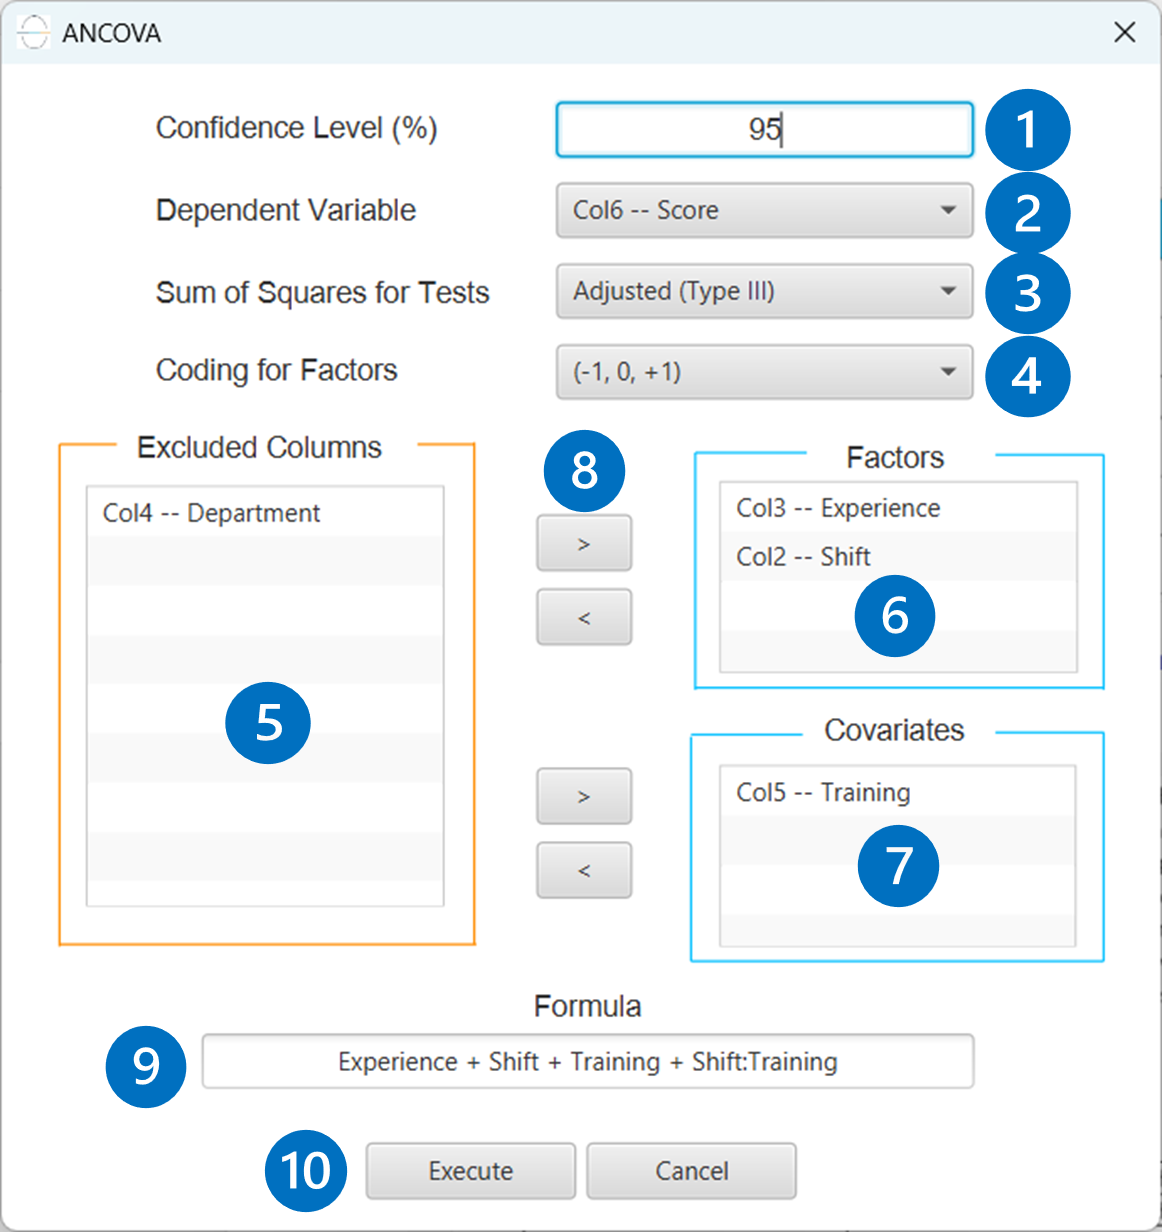
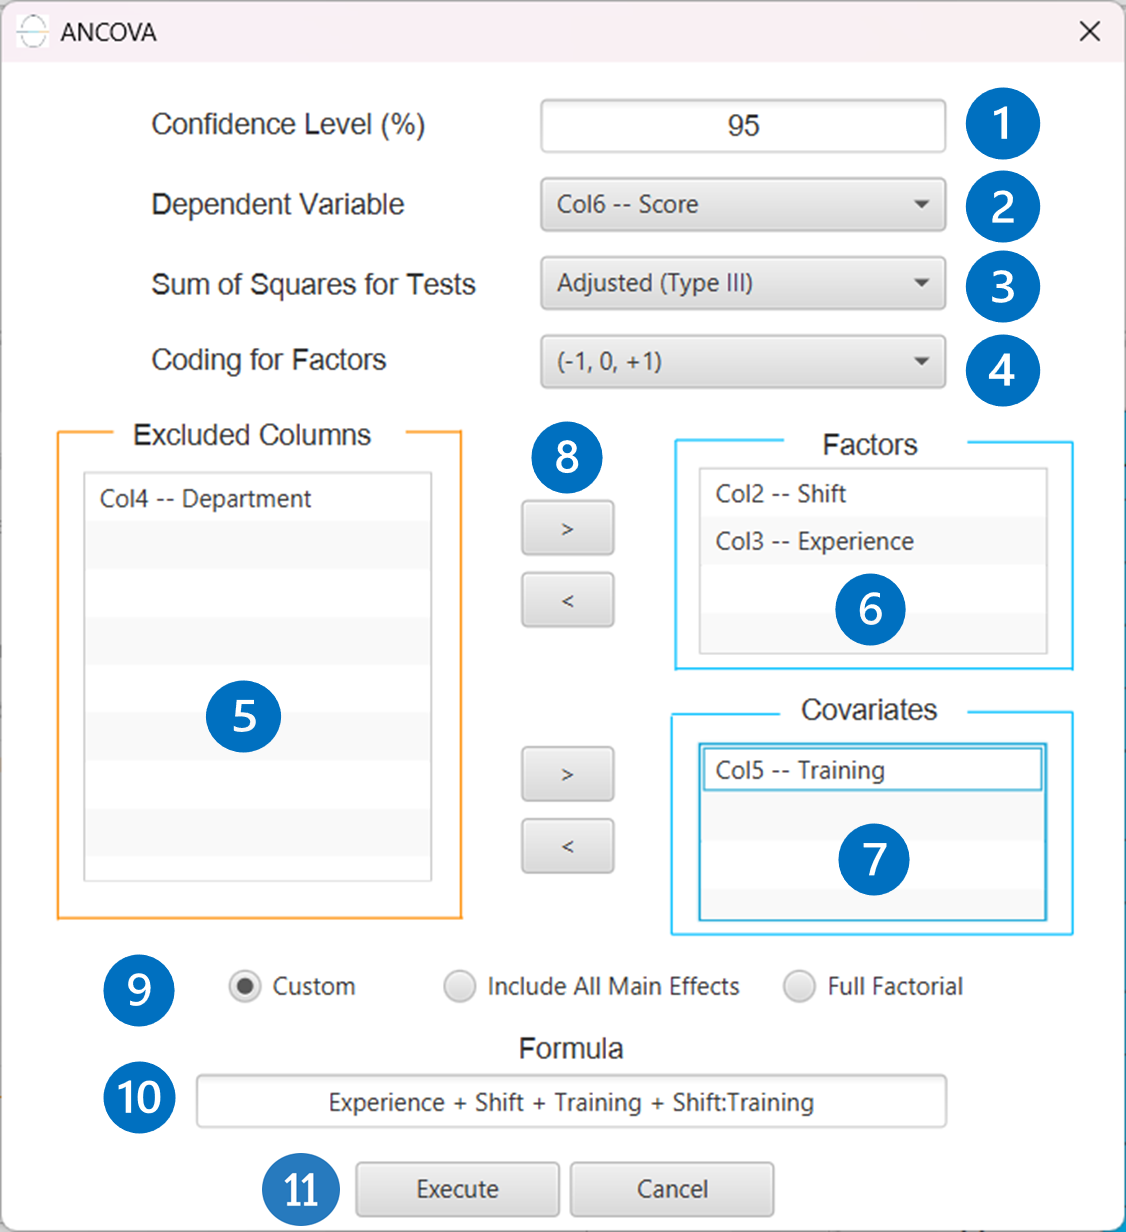
Analyis of (Co)Variance Fixed  and addition of Linear and Negative Binomial GLM

diff --git a/docs/analytics/41regression.md b/docs/analytics/41regression.md
@@ -532,52 +532,188 @@ In the right-hand spreadsheet of the tab the output data matrix with the actual 
 
 
 ### Generalized Linear Models
+Generalized Linear Models (GLMs) are a flexible class of regression models that generalize ordinary linear regression to allow for response variables that have error distributions other than the normal distribution. GLMs are particularly useful when the response variable is categorical (e.g., binary outcomes) or count data, where assumptions of normality and constant variance are inappropriate.
+A GLM consists of three components:
+1. 	Random Component: The response variable $$y_i$$  is assumed to follow a distribution from the exponential family (e.g., Normal, Binomial, Poisson, Gamma).
+1. 	Systematic Component: A linear predictor  $$\eta_i= x_i^T \beta$$, where $$x_i$$ is the vector of predictors for the i-th observation, and $$\beta$$ is the vector of coefficients.
+1. 	Link Function: A smooth, monotonic function $$g(⋅)$$ that relates the mean  $$\mu_i= E[y_i]$$ of the response to the linear predictor via $$g(\mu_i )= \eta_i$$.
+
+Unlike traditional linear regression, GLMs do not assume a linear relationship between the predictors and the response. Instead, the link function transforms the expected value of the response variable to a scale where it can be modeled as a linear combination of the predictors.
+GLM parameters are estimated using Maximum Likelihood Estimation (MLE). The likelihood is constructed based on the assumed distribution of the response variable, and the log-likelihood function is maximized to obtain the parameter estimates.
+Because log-likelihood is usually a nonlinear function of the parameters, iterative optimization method such as Newton-Raphson and Fisher Scoring are used to obtain the maximum likelihood estimates of the parameters of each model.
+Categorical variables are encoded using one-hot encoding, where each category is represented by a binary (0 or 1) dummy variable. The reference category for each categorical variable is the first observed category, and its corresponding dummy variable is omitted to avoid multicollinearity. This omission allows the reference category to be implicitly represented in the model intercept, providing a baseline for interpreting the effects of the other categories.
+
 
 #### Linear
 {: .no_toc}
+The classical linear regression model assumes that the response variable follows a normal (Gaussian) distribution, conditional on the explanatory variables. Specifically, for a continuous dependent variable $$Y$$, the model expresses $$Y$$ as a linear function of one or more independent variables $$X_1, X_2, …, X_p$$, plus a normally distributed error term:
+<div id="linear regression equation" style="text-align: center;">
+    $$
+    \begin{equation}
+    Y = \beta_0 + \beta_1X_1 + ... + \beta_pX_p + \epsilon \text{  ,  } \epsilon \sim \mathcal{N}(0,\sigma^2)
+    \end{equation}
+    $$
+</div> 
+
+Within the framework of Generalized Linear Models (GLMs), linear regression corresponds to the case where the distribution of the dependent variable is Gaussian, and the link function is the identity function:   
+<div id="linear regression link function" style="text-align: center;">
+    $$
+    \begin{equation}
+    g(\mu) = \mu \text{, where } \mu = \mathbb{E}[Y]
+    \end{equation}
+    $$
+</div>                        
+
+This identity link implies that the expected value of the outcome is directly modeled as a linear combination of the predictors.
+Linear regression is the most used when the dependent variable is continuous, unbounded, and approximately normally distributed, and when the relationship between the predictors and the outcome is assumed to be additive and linear.
+
+Use the Linear Regression method by browsing in the top ribbon: 
+
+| Analytics $$\rightarrow$$ Regression $$\rightarrow$$ Statistical fitting $$\rightarrow$$ Generalized Linear Models |
+
+And then choosing "Linear" as the `Type`.
+
+
 ##### Input
 {: .no_toc }
+All variables need to be specified in the datasheet. Numerical values will be used for the covariates and the dependent variable. Factors, however, can be textual as well as numerical. The design for Linear Regression requires at least two columns in the input sheet: one column representing either a categorical factor or a covariate (independent variable), and another column for the numerical response. Each row represents a single observation.
 
 ##### Configuration
 {: .no_toc }
 
+|**Confidence Level (%)**| Specify the confidence level of the analysis. Values should range from 0 to 100 and correspond to percentages. |
+|**Dependent Variable**| Select the column that corresponds to values of the dependent variable. |
+|**Scale Parameter Method**| Determines how the scale (error variance) parameter is estimated. Options include: Fixed value, Deviance, or Pearson Chi-square. |
+|**Value**| Specifies the scale parameter value manually, only when Fixed value is selected in the Scale Parameter Method. |
+|**Factors/Covariates/Excluded Columns**| Select manually the columns that correspond to factors and the columns that correspond to covariates through the dialog window: Use the buttons to move columns between the Factors and Covariates list and Excluded Columns list. Single-arrow buttons will move all selected columns and double-arrow buttons will move all columns. At least one covariate  or factor column should be specified.|
+|**Custom/Include All Main Effects/Full Factorial**| These options refer to the terms that will be included in the model. The Custom option allows the user to input a formula defining the exact terms to be included. The Include All Main Effects option allows the analysis of a model that only includes all main effects and finally, the Full Factorial option includes both all main effects and all possible interaction terms to build a full model. Note that the Include All Main Effects and Full Factorial options do not allow the use of a formula.|
+|**Formula**| Specify the model formula used for the analysis if the Custom option is selected. Include all variables listed under Factors or Covariates, separated by “+”. To include interaction terms, use the format VariableA:VariableB. If interaction terms are included, the dataset must contain all combinations of the levels of the involved categorical variables — i.e., the design must be fully crossed — to ensure the model can be properly estimated.|
+
 ##### Output
 {: .no_toc }
+The output of the linear regression procedure is organized into:
+1. The Predicted Values Table contains the actual values of the dependent variable and the corresponding predicted values generated by the model for each observation.
+1. The Goodness of Fit Table includes statistical measures that assess how well the model fits the data, such as Deviance, Log-Likelihood, AIC, BIC, and related metrics.
+1. The Parameter Estimates Table displays the estimated coefficients for each variable in the model, along with standard errors, confidence intervals, test statistics, degrees of freedom, and p-values.
+
 
 ##### Example
 {: .no_toc }
 
 ###### Input
 {: .no_toc }
+The input datasheet must include one continuous dependent variable, which will serve as the target, and at least one column with a continuous or categorical independent variable.
+<div style="text-align: center;">
+<img src="images/GLM/LinearGLM_Input.png" alt="linearGLM-input" width="400" height="300" class="img-responsive">
+</div>
 
 ###### Configuration
 {: .no_toc }
+1. Select `Analytics` → `Regression` → `Statistical fitting` → `Generalized Linear Models`
+1. Set the `Type` [1] of regression to Linear.
+1. Specify the `Confidence Level (%)` [2] for the test.
+1. Select the `Dependent Variable` [3].
+1. Select the `Scale Parameter Method` [4].
+1. Specify the Value [5] of the scale parameter method if the Fixed value option was chosen as the scale parameter method.
+1. Select the columns by clicking on the arrow buttons [9] and moving columns between the `Excluded Columns` [6] and `Factors` [7] and `Covariates` [8] lists.
+1. Select your preferred option to define the model you want to analyze [10].
+1. If the `Custom` option is selected, specify the `Formula` [11] for the analysis.
+1. Click on the `Execute` button [12] to perform the Linear Regression method.
+
+<div style="text-align: center;">
+<img src="images/GLM/LinearGLM_Configuration.png" alt="linearGLM-config" width="400" height="300" class="img-responsive">
+</div>
 
 ###### Output
 {: .no_toc }
+The predictions, Goodness of Fit table and Parameter Estimates table are shown in the output spreadsheet.
+<div style="text-align: center;">
+<img src="images/GLM/LinearGLM_Output.png" alt="linearGLM-output" width="400" height="300" class="img-responsive">
+</div>
 
 #### Negative Binomial 
 {: .no_toc}
+Negative Binomial Regression is a type of generalized linear model (GLM) used for modeling count data that exhibit overdispersion – that is, when the variance exceeds the mean. It assumes that the dependent variable follows a Negative Binomial distribution, which is a generalization of the Poisson distribution that introduces an additional dispersion parameter to account for variability beyond the mean. The most  commonly used link function is the log link, which models the logarithm of the expected count as a linear combination of the predictors:
+<div id="negative binomial regression link function" style="text-align: center;">
+    $$
+    \begin{equation}
+    g(\mu) = log(\mu) = x\beta
+    \end{equation}
+    $$
+</div>       
+Negative Binomial Regression is particularly useful in scenarios such as modeling the number of hospital visits, insurance claims, or any count-based outcome where the data are not well-fitted by Poisson model due to excess variation.
+
+Use the Negative Binomial Regression method by browsing in the top ribbon: 
+
+| Analytics $$\rightarrow$$ Regression $$\rightarrow$$ Statistical fitting $$\rightarrow$$ Generalized Linear Models |
+
+And then choosing "Negative Binomial" as the `Type`.
+
 ##### Input
 {: .no_toc }
+All variables must be specified in the datasheet. The dependent variable must be a non-negative integer count, as Negative Binomial Regression is designed for modeling count data. The dependent variable should not contain decimal values, negative numbers, or missing entries. Independent variables may be either numerical or categorical. Categorical variables can be represented using either text labels or numerical codes. The input datasheet must contain at least two columns: one for the dependent variable and one or more for the independent variables. Each row corresponds to single observation. This model is especially appropriate when the count data show overdispersion, meaning that the variance is greater than the mean – something that the standard Poisson model cannot adequately handle.
 
 ##### Configuration
 {: .no_toc }
 
+|**Confidence Level (%)**| Specify the confidence level of the analysis. Values should range from 0 to 100 and correspond to percentages. |
+|**Max Iterations**| Defines the maximum number of iterations the model is allowed to perform during the estimation process. If the model fails to converge before reaching this number, the algorithm stops and returns the values of the last iteration.|
+|**Maximum Step-Halving**| Controls how many times the algorithm is allowed to halve the step size during parameter updates when an iteration leads to worse model fit.|
+|**Dependent Variable**| Select the column that corresponds to values of the dependent variable. |
+|**Parameter Estimation**| This option lets you choose how the model parameters will be estimated, Newton-Raphson, Fisher Scoring or Hybrid.|
+|**Maximum Scoring Iterations**| The "Maximum Scoring Iterations" parameter is used when the hybrid estimation method is selected, instead of Newton-Raphson or Fisher scoring alone, and specifies the maximum number of iterations to be performed during the scoring phase.|
+|**Minimum Change in Parameter Estimates**| Sets the tolerance level for convergence — the smallest change in parameter estimates between iterations required to continue optimization. If the change in all parameters is below this value, the algorithm assumes convergence has been reached.|
+|**Scale Parameter Method**| Determines how the scale (error variance) parameter is estimated. Options include: Fixed value, Deviance, or Pearson Chi-square. |
+|**Value**| Specifies the scale parameter value manually, only when Fixed value is selected in the Scale Parameter Method. |
+|**Factors/Covariates/Excluded Columns**| Select manually the columns that correspond to factors and the columns that correspond to covariates through the dialog window: Use the buttons to move columns between the Factors and Covariates list and Excluded Columns list. Single-arrow buttons will move all selected columns and double-arrow buttons will move all columns. At least one covariate  or factor column should be specified.|
+|**Custom/Include All Main Effects/Full Factorial**| These options refer to the terms that will be included in the model. The Custom option allows the user to input a formula defining the exact terms to be included. The Include All Main Effects option allows the analysis of a model that only includes all main effects and finally, the Full Factorial option includes both all main effects and all possible interaction terms to build a full model. Note that the Include All Main Effects and Full Factorial options do not allow the use of a formula.|
+|**Formula**| Specify the model formula used for the analysis if the Custom option is selected. Include all variables listed under Factors or Covariates, separated by “+”. To include interaction terms, use the format VariableA:VariableB. If interaction terms are included, the dataset must contain all combinations of the levels of the involved categorical variables — i.e., the design must be fully crossed — to ensure the model can be properly estimated.|
+
 ##### Output
 {: .no_toc }
+The output of the Negative Binomial regression procedure is organized into three main sections: the Predicted Values Table, the Goodness of Fit Statistics, and the Parameter Estimates Table.
+1. The Predicted Values Table contains the actual values of the dependent variable and the corresponding predicted values generated by the model for each observation.
+1. The Goodness of Fit Table includes statistical measures that assess how well the model fits the data, such as Deviance, Log-Likelihood, AIC, BIC, and related metrics.
+1. The Parameter Estimates Table displays the estimated coefficients for each variable in the model, along with standard errors, confidence intervals, test statistics, degrees of freedom, and p-values.
+
 
 ##### Example
 {: .no_toc }
 
 ###### Input
 {: .no_toc }
+The input datasheet must include one continuous, non-negative dependent variable, which will serve as the target, and at least one column with a continuous or categorical independent variable. Optionally, an exposure variable can be included to account for different observation times or risk levels.
+<div style="text-align: center;">
+<img src="images/GLM/NegBinGLM_Input.png" alt="negbinGLM-input" width="400" height="300" class="img-responsive">
+</div>
 
 ###### Configuration
 {: .no_toc }
+1.	Select `Analytics` → `Regression` → `Statistical fitting`  → `Generalized Linear Models`
+1.	Set the `Type` [1] of regression to Negative Binomial.
+1.	Specify the `Confidence Level (%)` [2] for the test.
+1.	Specify `Max Iterations` [3].
+1.	Specify the `Maximum Step-Halving` [4].
+1.	Select the `Dependent Variable` [5].
+1.	Select the `Parameter Estimation Method` [6].
+1.	Specify the `Maximum Scoring Iterations` if Hybrid option is selected as the `Parameter Estimation Method`[7].
+1.	Specify the `Minimum Change in Parameter Estimates` [8].
+1.	Select the `Scale Parameter Method` [9].
+1.	Specify the `Value` [10] of the scale parameter method if the Fixed value option was chosen as the scale parameter method.
+1.	Select the columns by clicking on the arrow buttons [14] and moving columns between the `Excluded Columns` [11] and `Factors` [12] and `Covariates` [13] lists.
+1.	Select your preferred option to define the model you want to analyze [15].
+1.	If the `Custom` option is selected, specify the `Formula` [16] for the analysis.
+1.	Click on the `Execute` button [17] to perform the Negative Binomial Regression method.
+<div style="text-align: center;">
+<img src="images/GLM/NegBinGLM_Configuration.png" alt="negbinGLM-config" width="400" height="300" class="img-responsive">
+</div>
 
 ###### Output
 {: .no_toc }
+The predictions, Goodness of Fit table and Parameter Estimates table are shown in the output spreadsheet
+<div style="text-align: center;">
+<img src="images/GLM/NegBinGLM_Output.png" alt="negbinGLM-output" width="400" height="300" class="img-responsive">
+</div>
 
 #### Poisson 
 {: .no_toc}
